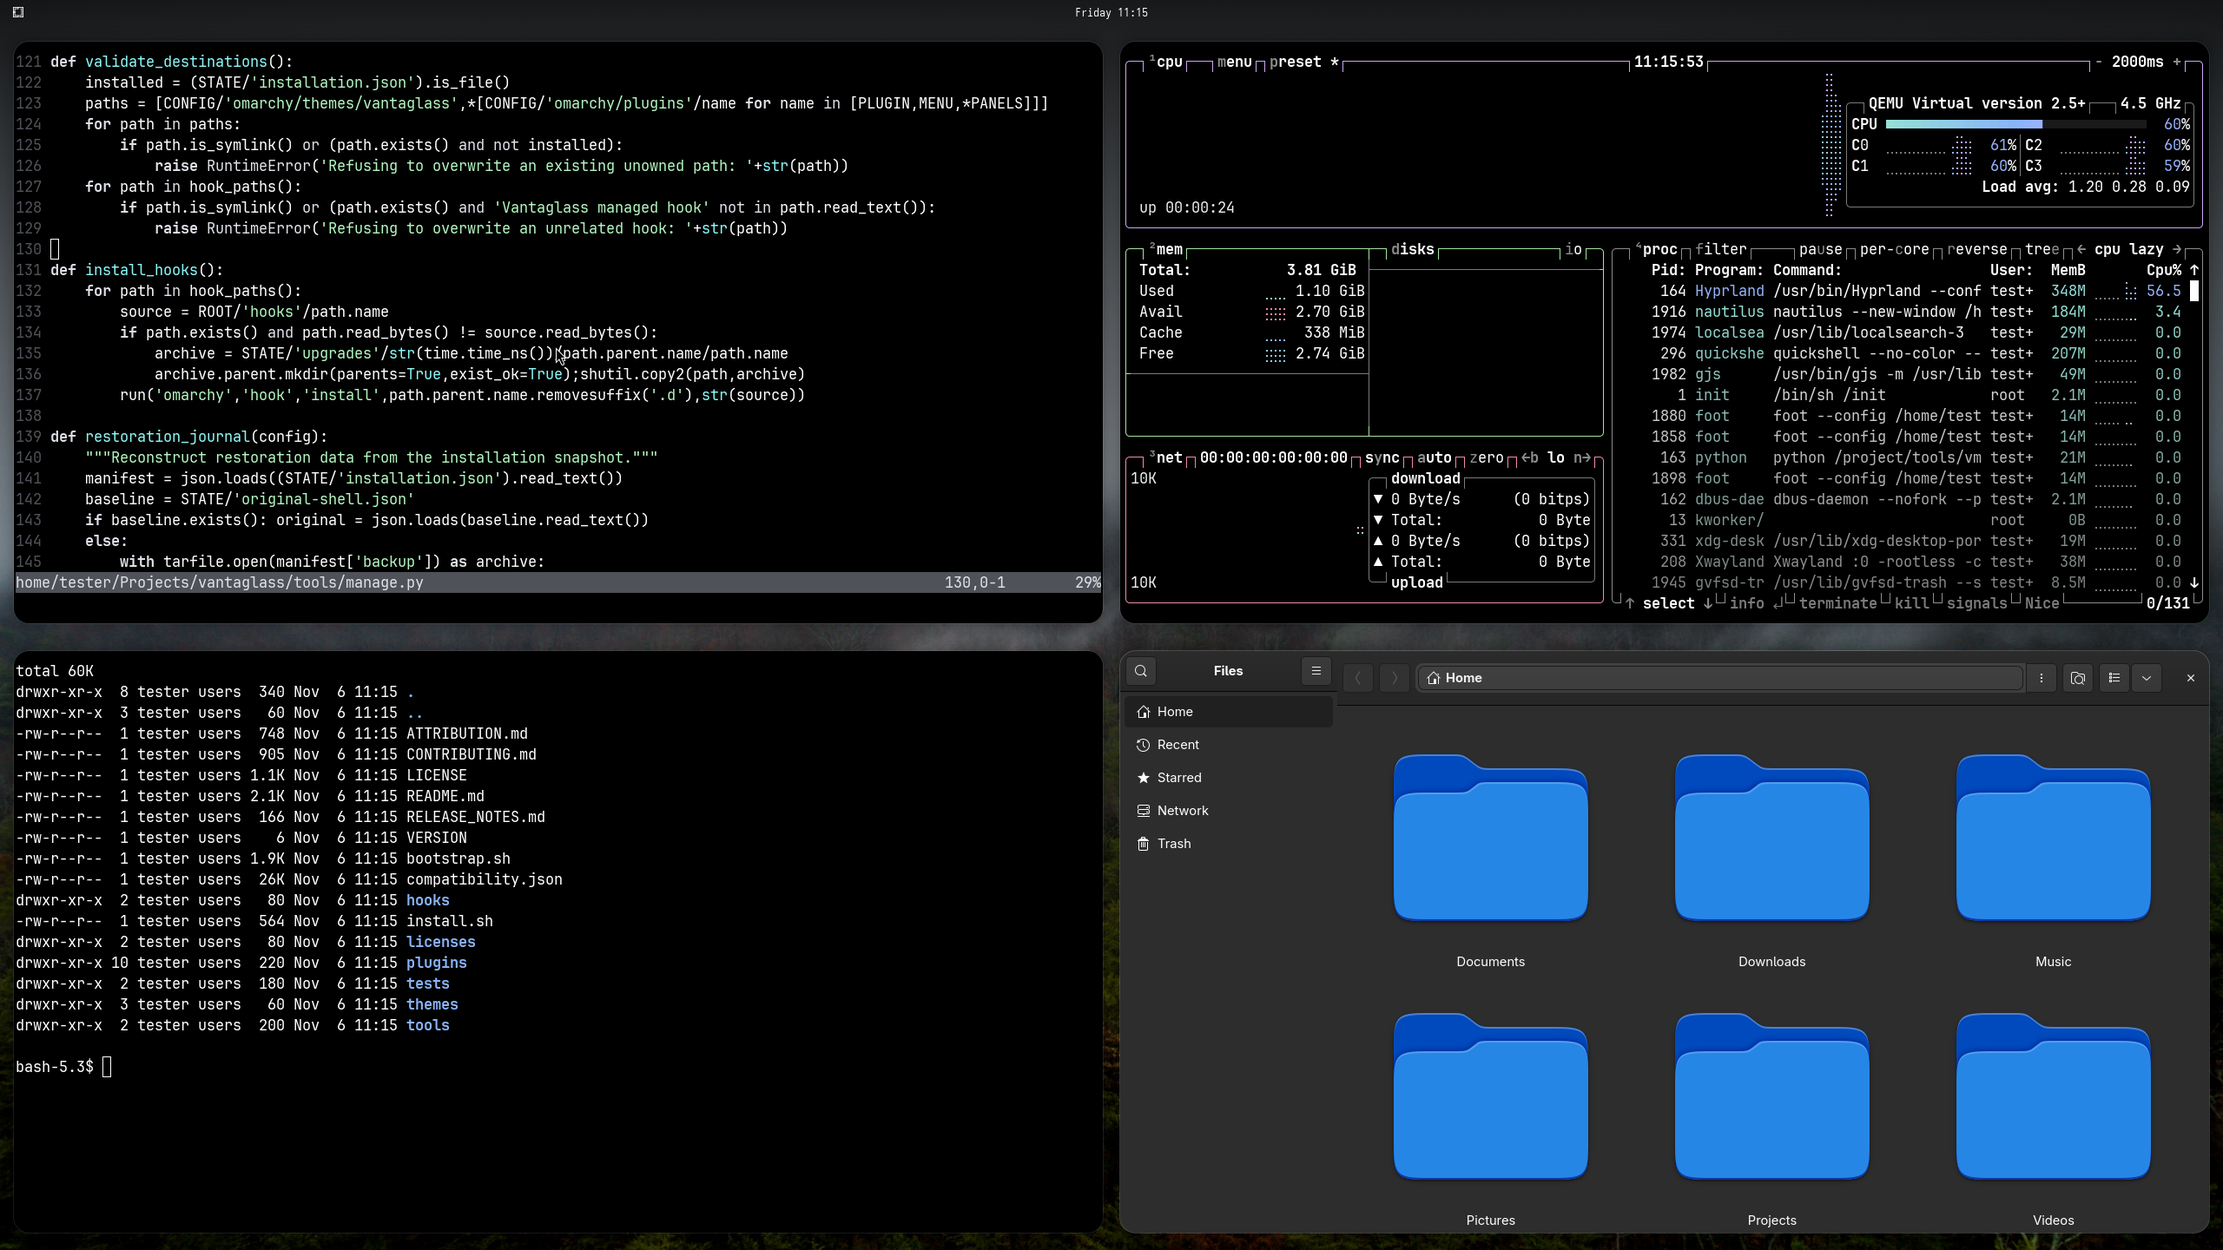
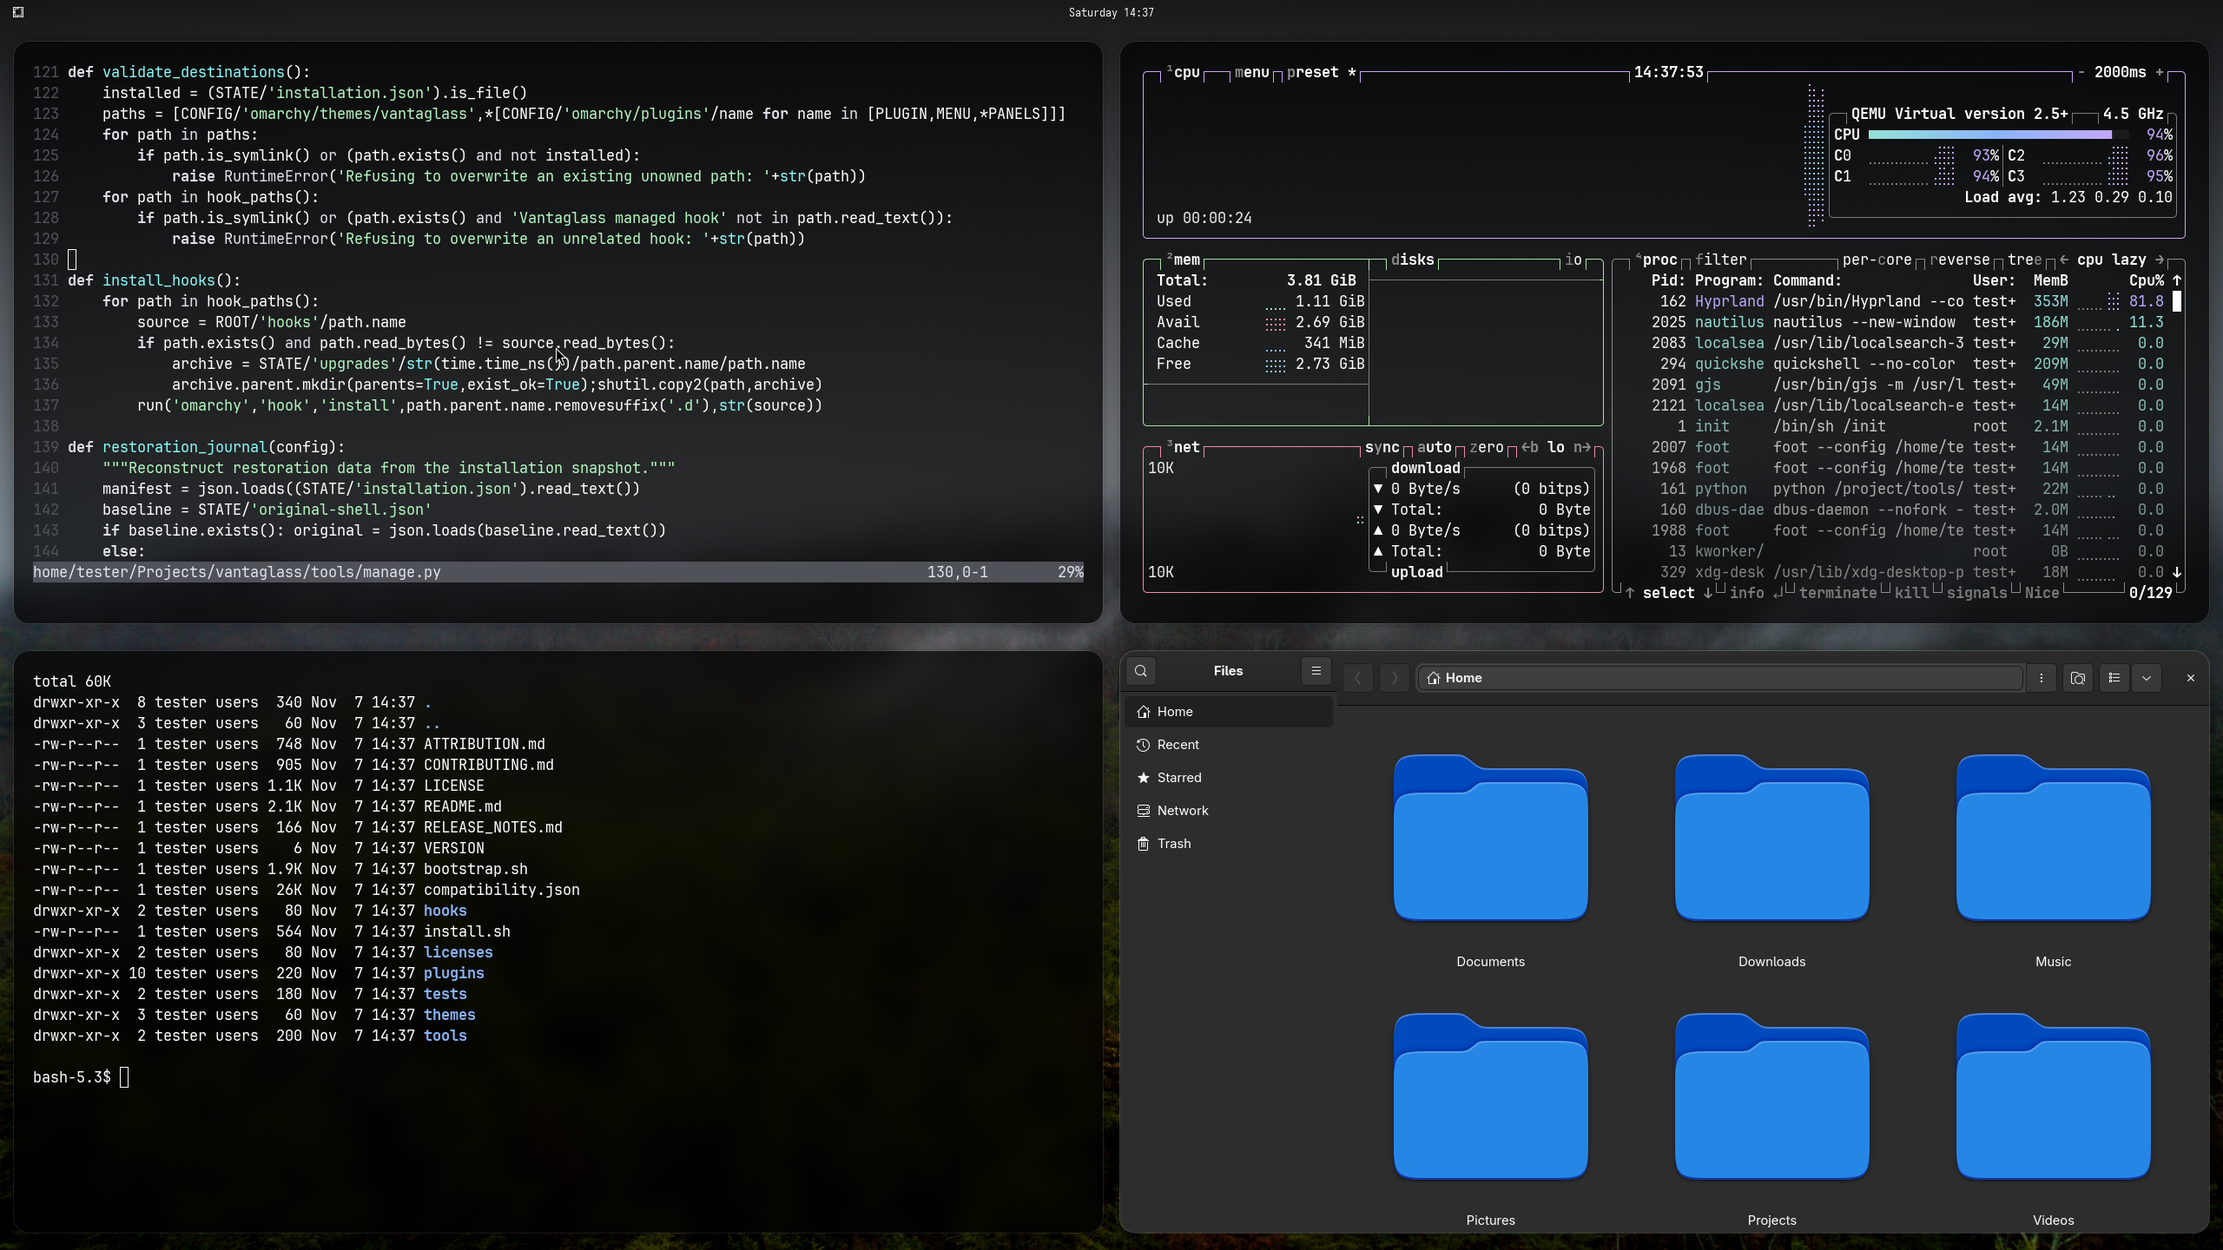
Add terminal glass and optional desktop overrides

diff --git a/themes/vantaglass/zen.css b/themes/vantaglass/zen.css
@@ -1,0 +1,78 @@
+/* Vantaglass for Zen Browser. Load from the profile's userChrome.css. */
+@-moz-document url("chrome://browser/content/browser.xhtml") {
+  :root {
+    --vg-glass: rgb(0 0 0 / 70%);
+    --vg-edge: rgb(255 255 255 / 12%);
+    --vg-highlight: rgb(255 255 255 / 30%);
+    --vg-hover: rgb(255 255 255 / 7.5%);
+    --vg-selected: rgb(255 255 255 / 12%);
+    --vg-shadow: 0 12px 32px rgb(0 0 0 / 40%);
+    --vg-panel-radius: 22px;
+
+    --zen-main-browser-background: #000 !important;
+    --zen-main-browser-background-old: #000 !important;
+    --zen-main-browser-background-toolbar: #000 !important;
+    --zen-main-browser-background-toolbar-old: #000 !important;
+    --zen-primary-color: #8d8d8d !important;
+    --toolbar-color: #fff !important;
+    --toolbar-field-color: #fff !important;
+    --toolbar-field-focus-color: #fff !important;
+    --toolbarbutton-border-radius: 999px !important;
+    --toolbarbutton-hover-background: var(--vg-hover) !important;
+    --toolbarbutton-background-color-hover: var(--vg-hover) !important;
+    --toolbarbutton-active-background: var(--vg-selected) !important;
+    --tab-border-radius: 12px !important;
+    --tab-background-color-hover: var(--vg-hover) !important;
+    --tab-background-color-selected: var(--vg-selected) !important;
+    --tab-selected-outline-color: var(--vg-edge) !important;
+    --arrowpanel-menuitem-border-radius: 10px !important;
+    --toolbar-field-border-color-focus: #8d8d8d !important;
+  }
+
+  /* Popups use their native content box so the outside remains transparent. */
+  :is(panel, menupopup) {
+    --arrowpanel-background: var(--vg-glass) !important;
+    --arrowpanel-color: #fff !important;
+    --panel-background-color: var(--vg-glass) !important;
+    --panel-color: #fff !important;
+    --panel-border-color: var(--vg-edge) !important;
+    --panel-border-radius: var(--vg-panel-radius) !important;
+    --panel-separator-color: var(--vg-edge) !important;
+    --panel-item-hover-bgcolor: var(--vg-hover) !important;
+    --panel-item-active-bgcolor: var(--vg-selected) !important;
+    --panel-box-shadow: var(--vg-shadow) !important;
+  }
+
+  :is(panel, menupopup)::part(content) {
+    border-radius: var(--vg-panel-radius) !important;
+    border-top-color: var(--vg-highlight) !important;
+    border-bottom-color: rgb(255 255 255 / 6%) !important;
+  }
+
+  #urlbar[breakout-extend],
+  #urlbar[breakout-extend] > .urlbar-background {
+    border-radius: var(--vg-panel-radius) !important;
+  }
+
+  #urlbar[breakout-extend] > .urlbar-background {
+    background-color: var(--vg-glass) !important;
+    backdrop-filter: blur(24px) !important;
+    border: 1px solid var(--vg-edge) !important;
+    border-top-color: var(--vg-highlight) !important;
+    border-bottom-color: rgb(255 255 255 / 6%) !important;
+    outline: none !important;
+    box-shadow: var(--vg-shadow) !important;
+  }
+
+  #urlbar[breakout-extend] .urlbarView-row-inner {
+    border-radius: 10px !important;
+  }
+
+  @media (prefers-reduced-transparency: reduce) {
+    :root { --vg-glass: #090909; }
+
+    #urlbar[breakout-extend] > .urlbar-background {
+      backdrop-filter: none !important;
+    }
+  }
+}

diff --git a/tools/vm_harness.py b/tools/vm_harness.py
@@ -154,7 +154,7 @@ def installer_flow(output, env, config, baseline, preview=False):
             if policy['BrowserThemeColor'].lower()!=expected_browser.lower():raise RuntimeError('Guest browser policy did not receive the theme')
             if terminal is None:
                 terminal_log=(output/'terminal.log').open('w')
-                program='import time; print("\\033[1mOmarchy\\033[0m\\nA clear view of your work.\\n\\n\\033[32m✓\\033[0m Theme verification\\n\\033[34m●\\033[0m Native desktop controls\\n\\033[33m●\\033[0m Keyboard workflows preserved",flush=True); time.sleep(300)'
+                program='import time; print("\\033[97m████████\\033[0m\\n\\033[48;2;0;0;0m"+" "*80+"\\033[0m\\n\\033[1mOmarchy\\033[0m\\nA clear view of your work.\\n\\n\\033[32m✓\\033[0m Theme verification\\n\\033[34m●\\033[0m Native desktop controls\\n\\033[33m●\\033[0m Keyboard workflows preserved",flush=True); time.sleep(300)'
                 terminal=subprocess.Popen(['foot','--config',str(generated/'foot.ini'),'--app-id','vantaglass-validation','--title','Omarchy · Theme verification','python','-c',program],env=env,stdout=terminal_log,stderr=terminal_log)
             for _ in range(30):
                 if terminal.poll() is not None:raise RuntimeError('Guest terminal exited; inspect terminal.log')
@@ -163,19 +163,40 @@ def installer_flow(output, env, config, baseline, preview=False):
                 if window:break
                 time.sleep(.1)
             else:raise RuntimeError('Guest terminal did not map')
+            address='address:'+window['address']
+            # Terminal rules must survive a user's different global geometry.
+            guest_command(output,env,'personal-rounding','hyprctl','repl','hl.config({decoration={rounding=10}})')
+            rounding=guest_command(output,env,'terminal-rounding','hyprctl','getprop',address,'rounding').strip()
+            if rounding!='18':raise RuntimeError('Terminal did not retain theme-local rounding: '+rounding)
+            guest_command(output,env,'restore-rounding','hyprctl','repl','hl.config({decoration={rounding=18}})')
+            border=guest_command(output,env,'terminal-border','hyprctl','getprop',address,'active_border_color')
+            angle=re.search(r'(\d+)deg',border)
+            if not angle or abs(int(angle[1])-110)>3 or len(border.split())!=3:
+                raise RuntimeError('Terminal edge gradient did not apply: '+border)
+            # A white backdrop makes 70% black measurable independently of the
+            # bundled photograph; the first line also verifies opaque glyphs.
+            backdrop=home/'white.png'
+            preserved_wallpaper=str(wallpaper.resolve())
+            guest_command(output,env,'white-backdrop','magick','-size','1280x800','xc:white',str(backdrop))
+            guest_command(output,env,'test-backdrop','omarchy','theme','bg','set',str(backdrop))
             time.sleep(.7)
             app_image=output/(tag+'-application.png')
             x=window['at'][0]+window['size'][0]-30;y=window['at'][1]+window['size'][1]-30
             expression=','.join(f'%[fx:round(255*p{{{x},{y}}}.{channel})]' for channel in ['r','g','b'])
             expected=palette['background'].lstrip('#')
-            expected_rgb=[int(expected[i:i+2],16) for i in [0,2,4]]
+            expected_rgb=[77,77,77]
             for _ in range(12):
                 guest_command(output,env,tag+'-application-capture','grim','-o','Virtual-1',str(app_image))
                 sample=guest_command(output,env,tag+'-application-color','magick',str(app_image),'-format',expression,'info:').strip()
                 actual_rgb=[int(value) for value in sample.split(',')]
-                if all(abs(a-b)<=2 for a,b in zip(actual_rgb,expected_rgb)):break
+                if all(abs(a-b)<=3 for a,b in zip(actual_rgb,expected_rgb)):break
                 time.sleep(.2)
             else:raise RuntimeError('Live terminal background did not match theme: '+sample+' vs '+expected)
+            pixels=guest_command(output,env,'terminal-glyphs','magick',str(app_image),'-crop',f'160x50+{window["at"][0]+18}+{window["at"][1]+18}','-format','%[fx:maxima]','info:')
+            if float(pixels)<.999:raise RuntimeError('Terminal text was faded with its background')
+            explicit=guest_command(output,env,'terminal-explicit-black','magick',str(app_image),'-format',f'%[fx:round(255*p{{{window["at"][0]+80},{window["at"][1]+40}}}.r)]','info:')
+            if abs(int(explicit)-77)>3:raise RuntimeError('Explicit black cells lost transparency: '+explicit)
+            guest_command(output,env,'restore-backdrop','omarchy','theme','bg','set',preserved_wallpaper)
             guest_command(output,env,tag+'-menu-ipc','omarchy-shell','shell','summon','omarchy.menu','{"menu":"root"}')
             time.sleep(.7)
             guest_command(output,env,tag+'-menu-capture','grim','-o','Virtual-1',str(output/(tag+'-menu.png')))
@@ -183,7 +204,7 @@ def installer_flow(output, env, config, baseline, preview=False):
             guest_command(output,env,tag+'-notification','notify-send','-a','Omarchy','-t','800','Vantaglass','A clear view of your work.')
             time.sleep(.3)
             guest_command(output,env,tag+'-notification-capture','grim','-o','Virtual-1',str(output/(tag+'-notification.png')))
-            results.append({'theme':theme,'active_theme':active,'rounding':geometry['int'],'live_terminal_background':actual_rgb,'expected_terminal_background':expected_rgb,'browser_policy_color':policy['BrowserThemeColor'],'shell_renderer':'software'})
+            results.append({'theme':theme,'active_theme':active,'rounding':geometry['int'],'live_terminal_background':actual_rgb,'expected_terminal_background':expected_rgb,'terminal_text':'opaque','explicit_black_cells':'translucent','terminal_rounding':int(rounding),'terminal_edge':border.strip(),'browser_policy_color':policy['BrowserThemeColor'],'shell_renderer':'software'})
             print('Verified real guest switch: '+tag,flush=True)
         # Fixture transport only: real post-update hook, downloader validation,
         # installer, operation locks and shell refresh all run unchanged.
@@ -197,6 +218,10 @@ def installer_flow(output, env, config, baseline, preview=False):
         # Ordinary Omarchy commands, not our switch command, drive the overlay.
         for iteration in range(2):
             guest_command(output,dict(env,OMARCHY_THEME_WAIT='1'),'native-away-'+str(iteration),'omarchy','theme','set','vm-original')
+            if guest_command(output,env,'native-terminal-rounding','hyprctl','getprop',address,'rounding').strip()!='0':
+                raise RuntimeError('Terminal rules remained after switching away')
+            if 'alpha=0.70' in (home/'.local/state/omarchy/current/theme/foot.ini').read_text():
+                raise RuntimeError('Terminal glass remained in the other theme')
             if json.loads(shell_file.read_text())['bar']['layout']!=shell_config['bar']['layout']:raise RuntimeError('Ordinary switch-away retained custom widgets')
             guest_command(output,dict(env,OMARCHY_THEME_WAIT='1'),'native-back-'+str(iteration),'omarchy','theme','set','vantaglass')
             if json.loads(shell_file.read_text())['bar']['layout']!=expected_layout:raise RuntimeError('Ordinary switch-back did not restore custom widgets')
@@ -384,6 +409,9 @@ def inside(integration=False, preview=False):
     config=Path.home()/'.config/hypr/hyprland.lua'
     config.parent.mkdir(parents=True,exist_ok=True)
     baseline='hl.config({ debug = { enable_stdout_logs = true, disable_logs = false }, misc = { disable_hyprland_logo = true, disable_splash_rendering = true }, decoration = { rounding = 0, blur = { enabled = false } } })\n'
+    # The minimal guest omits Omarchy's defaults; supply its terminal tagging
+    # and opacity rules so the theme is checked against the normal baseline.
+    baseline+='hl.window_rule({match={class="(foot|preview-.*|vantaglass-validation)"},tag="+terminal",opacity="0.985 0.96"})\n'
     config.write_text(baseline)
     log=(output/'hyprland.log').open('w')
     process=subprocess.Popen(['/usr/bin/Hyprland','--config',str(config)],stdout=log,stderr=log)

diff --git a/tools/build.py b/tools/build.py
@@ -59,6 +59,20 @@ def shell(p):
         return str(v)
     return '# Vantaglass · generated by tools/build.py\n\n'+'\n\n'.join('['+section+']\n'+'\n'.join(k+' = '+literal(v) for k,v in values.items()) for section,values in sections.items())+'\n'
 
+def foot(p):
+    """Keep the glass in the background while glyphs retain their full opacity."""
+    lines=['[main]', 'pad=18x18 center', '', '[colors-dark]',
+           'foreground='+p['foreground'].lstrip('#'), 'background=000000',
+           'alpha=0.70', 'alpha-mode=matching', 'blur=yes',
+           'selection-foreground='+p['selection_foreground'].lstrip('#'),
+           'selection-background='+p['selection_background'].lstrip('#'),
+           'cursor=000000 '+p['bright_foreground'].lstrip('#'), '']
+    for prefix,keys in [('regular',['background','red','green','yellow','blue','magenta','cyan','foreground']),
+                        ('bright',['muted','bright_red','bright_green','bright_yellow','bright_blue','bright_magenta','bright_cyan','bright_foreground'])]:
+        lines += [prefix+str(i)+'='+p[key].lstrip('#') for i,key in enumerate(keys)]
+        lines.append('')
+    return '\n'.join(lines)
+
 def build():
     for name, p in PALETTES.items():
         dest = ROOT/'themes'/'vantaglass'
@@ -69,6 +83,7 @@ def build():
         values.update(selection_background=p['selection'], selection_foreground=p['foreground'], hyprland_active_border=active_border, hyprland_inactive_border='#FFFFFF16')
         (dest/'colors.toml').write_text('\n'.join(k+' = "'+v+'"' for k,v in values.items())+'\n')
         (dest/'shell.toml').write_text(shell(p))
+        (dest/'foot.ini').write_text(foot(values))
         (dest/'icons.theme').write_text('Yaru-blue\n')
         # The photograph is a checked-in asset, not regenerated artwork.
         wallpaper = dest/'backgrounds/01-misty-forest.jpg'
@@ -87,6 +102,19 @@ hl.config({
 for _, ns in ipairs({ "^omarchy-bar$", "^omarchy-menu$", "^omarchy-notifications$", "^omarchy-keyboard-panel$" }) do
   hl.layer_rule({ match = { namespace = ns }, blur = true, ignore_alpha = 0.35 })
 end
+-- Window rules retain the terminal silhouette when personal defaults differ.
+-- Only the background is translucent; compositor opacity would also fade text.
+hl.window_rule({
+  match = { tag = "terminal" },
+  rounding = 18, rounding_power = 2.0, border_size = 1,
+  opacity = "1.0 override 1.0 override",
+  no_blur = false, no_shadow = false,
+  border_color = { colors = { "rgba(ffffff26)", "rgba(ffffff08)" }, angle = 110 },
+})
+hl.window_rule({
+  match = { tag = "terminal", focus = true },
+  border_color = { colors = { "rgba(ffffff52)", "rgba(ffffff0d)" }, angle = 110 },
+})
 ''' % (active_border,values['hyprland_inactive_border'],active_border,values['hyprland_inactive_border']))
         print(dest.name)
 

diff --git a/tools/validate.py b/tools/validate.py
@@ -6,6 +6,7 @@ from pathlib import Path
 import re
 import subprocess
 import tomllib
+import configparser
 from build import PALETTES, ROOT
 
 def rgb(color):
@@ -24,6 +25,13 @@ def validate(live=False):
     assert set(PALETTES) == {'vantaglass'}, 'Only the dark theme is supported'
     for appearance,p in PALETTES.items():
         folder = ROOT/'themes'/'vantaglass'
+        terminal=configparser.ConfigParser(interpolation=None)
+        terminal.read(folder/'foot.ini')
+        assert terminal['colors-dark']['background']=='000000'
+        assert terminal['colors-dark'].getfloat('alpha')==.70
+        assert terminal['colors-dark']['alpha-mode']=='matching'
+        assert terminal['colors-dark'].getboolean('blur')
+        assert not any(key.startswith('font') for key in terminal['main'])
         palette = tomllib.loads((folder/'colors.toml').read_text())
         assert palette['mode'] == 'dark'
         for key,value in p.items(): assert palette[key] == value, ('palette drift',key)

diff --git a/README.md b/README.md
@@ -24,6 +24,18 @@ omarchy theme set vantaglass
 
 Switching to another theme restores the native panels. Switching back enables Vantaglass again.
 
+## Optional overrides
+
+**Zen Browser.** Open the profile folder from `about:support`. Copy [zen.css](themes/vantaglass/zen.css) into its `chrome` directory and add this line at the top of `chrome/userChrome.css`:
+
+```css
+@import url("zen.css");
+```
+
+In `about:config`, enable `toolkit.legacyUserProfileCustomizations.stylesheets` and `zen.theme.acrylic-urlbar`, then fully quit and reopen Zen. The override styles browser menus and the address popup. The popup uses backdrop blur on Zen builds that support it.
+
+**Single tiled window.** Copy [single-window.lua](assets/single-window.lua) into `~/.config/hypr/`, then add `require("hypr.single-window")` at the end of `~/.config/hypr/hyprland.lua` and run `hyprctl reload`. A lone tiled window in dwindle uses 75% of the available width and height, centered. Floating windows are excluded from the count.
+
 ## Updates
 
 Vantaglass checks for updates when you run an Omarchy update, including through the top-bar update button. It uses Omarchy's supported `post-update` hook.

diff --git a/RELEASE_NOTES.md b/RELEASE_NOTES.md
@@ -1,1 +1,5 @@
-Add a desktop screenshot to the Omarchy theme switcher. Vantaglass now shows an application preview like the bundled themes instead of falling back to the wallpaper.
+- Match Foot terminals to Vantaglass menus with a 70% black background, opaque text, rounded corners, and a subtle edge highlight. Refresh the theme picker screenshot.
+- Add an optional Zen Browser stylesheet for matching menus and a blurred address popup.
+- Include an optional dwindle layout rule that centers a lone tile at 75% width and height and ignores floating windows.
+
+See the README for setup instructions for the optional overrides.
